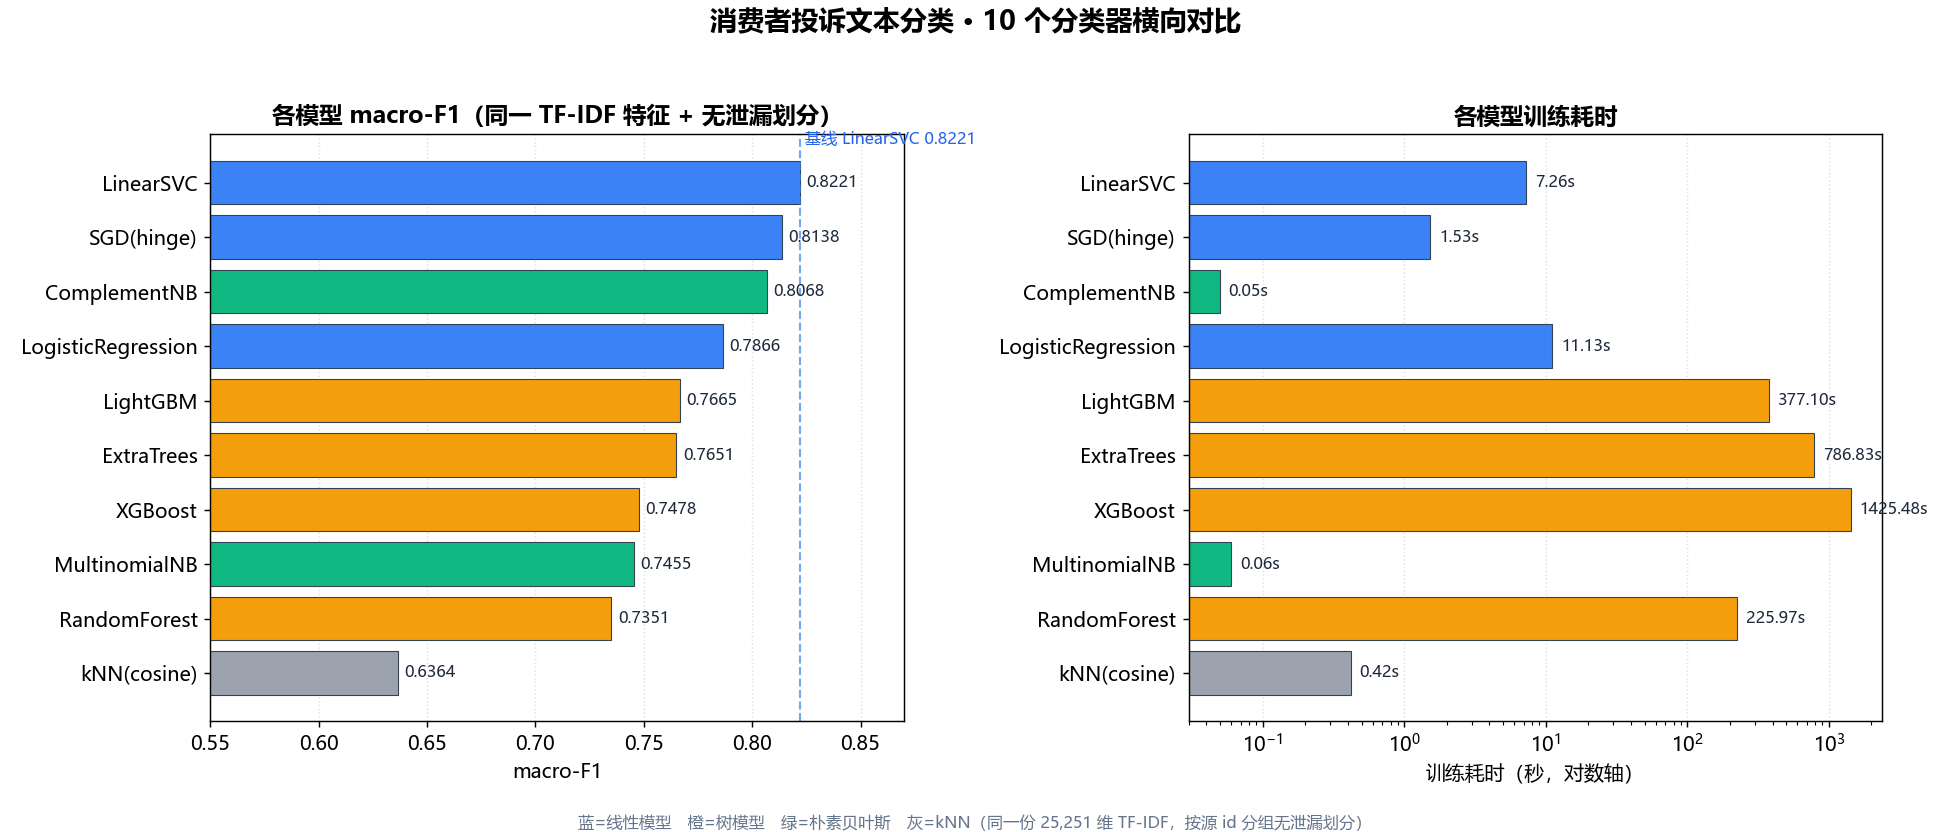
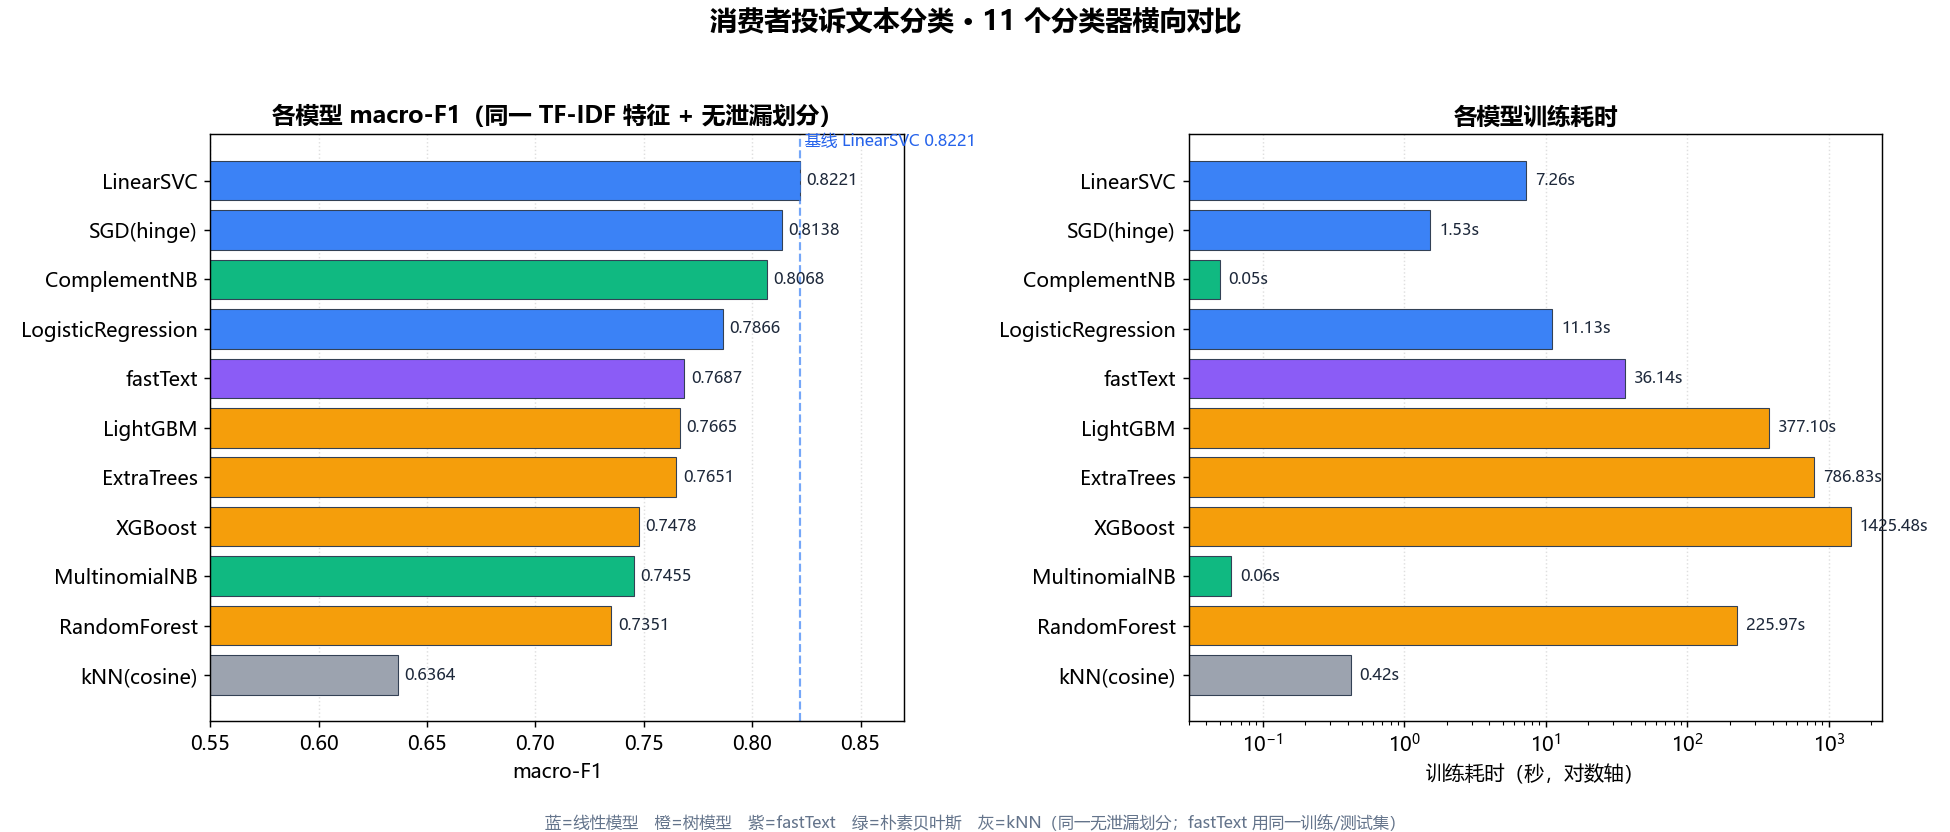
compare: 补测 fastText（0.7687/36s），对比图与 README/TENSOR.md 扩至 11 个模型

diff --git a/resources/compare_fasttext.py b/resources/compare_fasttext.py
@@ -1,0 +1,121 @@
+# -*- coding: utf-8 -*-
+"""TF-IDF/fastText 对比：fastText 监督分类（本机 CPU，无泄漏划分）。
+
+沿用 compare_tfidf_clf.py 的评估协议与同一划分，补测 fastText：
+  - fastText 是"词袋 + 词向量 + 线性分类"一体的高效基线，天然吃原始文本
+  - 中文需先分词（jieba），否则 fastText 按整句/字符切分效果差
+  - 训练用 `train_supervised`，predict 走 `model.predict`
+
+与其它模型同口径输出 macro-F1 / 准确率 / 训练耗时，结果 merge 进
+resources/tfidf_clf_result.json。
+用法：python compare_fasttext.py
+"""
+import os, sys, json, time, tempfile
+import numpy as np
+import pandas as pd
+import jieba
+from sklearn.model_selection import GroupShuffleSplit
+from sklearn.metrics import f1_score, accuracy_score
+
+ROOT = os.path.dirname(os.path.dirname(os.path.abspath(__file__)))
+CSV = os.path.join(ROOT, "train_augmented.csv")
+SEED = 42
+
+jieba.setLogLevel(20)
+cut = lambda t: jieba.lcut(t)
+
+
+def build_split(df):
+    src = df["id"].astype(str).str.split("#").str[0]
+    is_aug = df["is_aug"].to_numpy()
+    ori_idx = np.where(is_aug == 0)[0]
+    gss = GroupShuffleSplit(n_splits=1, test_size=0.2, random_state=SEED)
+    ori_all = np.arange(len(df))
+    tr_ori, te_ori = next(gss.split(ori_all[ori_idx], groups=src.to_numpy()[ori_idx]))
+    tr_ori = ori_idx[tr_ori]; te_ori = ori_idx[te_ori]
+    test_src = set(src.to_numpy()[te_ori])
+    aug_idx = np.where(is_aug == 1)[0]
+    train_aug_idx = np.array([i for i in aug_idx if src.to_numpy()[i] not in test_src])
+    train = np.concatenate([tr_ori, train_aug_idx])
+    return train, te_ori, test_src
+
+
+def write_ft_file(path, texts, labels):
+    """fastText 格式：__label__<id> <空格分词后的文本>"""
+    with open(path, "w", encoding="utf-8") as f:
+        for t, y in zip(texts, labels):
+            seg = " ".join(w for w in cut(str(t)) if w.strip())
+            f.write(f"__label__{y} {seg}\n")
+
+
+def main():
+    import fasttext
+    df = pd.read_csv(CSV)
+    cats = sorted(df["category"].unique())
+    m = {c: i for i, c in enumerate(cats)}
+    y = df["category"].map(m).to_numpy()
+    texts = df["text"].astype(str).tolist()
+    train, test, test_src = build_split(df)
+    ytr, yte = y[train], y[test]
+    n_tr_aug = int((df["is_aug"].to_numpy()[train] == 1).sum())
+    print(f"训练 {len(train)}（原始 {len(train)-n_tr_aug} + 增强 {n_tr_aug}）/ "
+          f"测试 {len(test)}（全原始）；测试源 {len(test_src)} 个", flush=True)
+
+    tmp = tempfile.mkdtemp(prefix="ft_")
+    tr_f = os.path.join(tmp, "train.txt")
+    te_f = os.path.join(tmp, "test.txt")
+    t0 = time.time()
+    write_ft_file(tr_f, [texts[i] for i in train], ytr)
+    write_ft_file(te_f, [texts[i] for i in test], yte)
+    print(f"写出 fastText 数据用时 {time.time()-t0:.1f}s", flush=True)
+
+    rows = []
+    configs = [
+        ("fastText", dict(dim=100, epoch=25, lr=0.5, word_ngrams=2, minn=2, maxn=5, loss="softmax", thread=8)),
+    ]
+    for name, kw in configs:
+        try:
+            t0 = time.time()
+            model = fasttext.train_supervised(input=tr_f, **kw)
+            fit = time.time() - t0
+            # 用语料自带 test 文件评估
+            t0 = time.time()
+            N, prec, rec = model.test(te_f, k=1)
+            inf = time.time() - t0
+            # 用 sklearn 口径复算 macro-F1
+            lines = open(te_f, encoding="utf-8").read().splitlines()
+            gold = [int(l.split()[0].replace("__label__", "")) for l in lines]
+            txts = [" ".join(l.split()[1:]) for l in lines]
+            preds = [int(model.predict(t, k=1)[0][0].replace("__label__", "")) for t in txts]
+            f1 = f1_score(gold, preds, average="macro")
+            acc = accuracy_score(gold, preds)
+            print(f"  {name}  macroF1={f1:.4f} acc={acc:.4f} "
+                  f"训练={fit:.1f}s 推理={inf:.1f}s（ft自带 prec={prec:.4f}）", flush=True)
+            rows.append(dict(name=name, macro_f1=round(float(f1), 4),
+                             acc=round(float(acc), 4), fit_s=round(fit, 2),
+                             infer_s=round(inf, 2), extra="dim100,ep25,ngram2-5"))
+        except Exception as e:
+            print(f"  {name} 失败:", repr(e), flush=True)
+
+    rows.sort(key=lambda r: -r["macro_f1"])
+    print("\n=== 排名 ===")
+    for r in rows:
+        print(f"  {r['name']:12s} F1={r['macro_f1']:.4f} acc={r['acc']:.4f}")
+
+    p = os.path.join(ROOT, "resources", "tfidf_clf_result.json")
+    prev = {}
+    if os.path.exists(p):
+        try: prev = json.load(open(p, encoding="utf-8"))
+        except Exception: prev = {}
+    prev_rows = prev.get("rows", [])
+    names = {r["name"] for r in rows}
+    merged = [r for r in prev_rows if r["name"] not in names] + rows
+    merged.sort(key=lambda r: -r["macro_f1"])
+    prev["rows"] = merged
+    prev["best"] = merged[0] if merged else None
+    json.dump(prev, open(p, "w", encoding="utf-8"), ensure_ascii=False, indent=2)
+    print("已写:", p, flush=True)
+
+
+if __name__ == "__main__":
+    main()

diff --git a/resources/make_compare_fig.py b/resources/make_compare_fig.py
@@ -23,12 +23,14 @@ names = [r["name"] for r in rows]
 f1 = [r["macro_f1"] for r in rows]
 fit = [r["fit_s"] for r in rows]
 
-# 颜色：线性模型蓝、树模型橙、贝叶斯绿、kNN 灰
+# 颜色：线性模型蓝、树模型橙、贝叶斯绿、kNN 灰、fastText 紫
 def color(n):
     if n in ("LinearSVC", "SGD(hinge)", "LogisticRegression"):
         return "#3b82f6"
     if n in ("RandomForest", "ExtraTrees", "XGBoost", "LightGBM"):
         return "#f59e0b"
+    if n == "fastText":
+        return "#8b5cf6"
     if "NB" in n:
         return "#10b981"
     return "#9ca3af"
@@ -67,9 +69,9 @@ for b, v in zip(bars, fit):
 ax.grid(axis="x", ls=":", alpha=0.4)
 ax.set_axisbelow(True)
 
-fig.suptitle("消费者投诉文本分类 · 10 个分类器横向对比", fontsize=15, fontweight="bold", y=0.99)
+fig.suptitle("消费者投诉文本分类 · 11 个分类器横向对比", fontsize=15, fontweight="bold", y=0.99)
 fig.text(0.5, 0.005,
-         "蓝=线性模型　橙=树模型　绿=朴素贝叶斯　灰=kNN（同一份 25,251 维 TF-IDF，按源 id 分组无泄漏划分）",
+         "蓝=线性模型　橙=树模型　紫=fastText　绿=朴素贝叶斯　灰=kNN（同一无泄漏划分；fastText 用同一训练/测试集）",
          ha="center", fontsize=9, color="#64748b")
 plt.tight_layout(rect=[0, 0.03, 1, 0.96])
 

diff --git a/README.md b/README.md
@@ -226,9 +226,9 @@ is_aug   : 0
 | TF-IDF + LinearSVC | 0.8221 | 0.8229 | 13.2s（CPU） | 基线方案，词表 25251 |
 | 词频随机嵌入 | 0.4742 | 0.5131 | 31.7s（CPU） | 无监督随机嵌入，明显最差 |
 
-### 5.5 TF-IDF 之上换分类器：10 模型横向对比
+### 5.5 TF-IDF 之上换分类器：11 模型横向对比
 
-固定**同一份 TF-IDF 特征**（jieba 分词 + 词频，`min_df=2`，25,251 维）+ 同一无泄漏划分，横向对比 10 个分类器。训练集 23,852 条、测试集 1,378 条（全原始）。
+固定**同一份 TF-IDF 特征**（jieba 分词 + 词频，`min_df=2`，25,251 维）+ 同一无泄漏划分，横向对比 11 个分类器（fastText 用同一训练/测试集、自行分词训练）。训练集 23,852 条、测试集 1,378 条（全原始）。
 
 ![模型性能与训练耗时对比](resources/figures/09_model_compare.png)
 
@@ -238,6 +238,7 @@ is_aug   : 0
 | SGD（hinge） | 0.8138 | 0.8157 | 1.5s |
 | ComplementNB | 0.8068 | 0.8128 | 0.1s |
 | LogisticRegression | 0.7866 | 0.8012 | 11.1s |
+| fastText | 0.7687 | 0.7779 | 36.1s |
 | LightGBM | 0.7665 | 0.7845 | 377s |
 | ExtraTrees | 0.7651 | 0.7729 | 787s |
 | XGBoost | 0.7478 | 0.7649 | 1426s |
@@ -249,6 +250,7 @@ is_aug   : 0
 
 - **线性模型明显优于树模型**：TF-IDF 是 25,251 维的高度稀疏特征，线性模型恰好擅长；树模型在高维稀疏矩阵上难以有效分裂且过拟合，RandomForest 训练 226 秒反而只有 0.7351。
 - **梯度提升树同样不划算**（XGBoost / LightGBM）：作为"更强的树模型"，二者精度仅 0.75~0.77，仍落后线性模型 5~7 个点；XGBoost 训练更要 1,426 秒（约 LinearSVC 的 200 倍）。LightGBM 因为直方图算法 + 叶子生长更快（377 秒），是树模型里性价比最高的，但依然不敌线性 SVM。
+- **fastText 表现中游**（0.7687）：作为"词袋 + 词向量 + 线性分类"一体的高效基线，36 秒训练拿到 0.7687，优于全部树模型，但比线性 SVM 低约 5 个点——因为这些投诉文本的关键信号集中在**少数强判别词**（品牌名、业务词），词袋线性模型已能充分捕捉，fastText 的 n-gram 子词与浅层嵌入并未带来额外收益。
 - **朴素贝叶斯是"秒级"基线**：ComplementNB 用 0.1 秒拿到 0.8068，适合作为超低成本的兜底方案。
 - **LinearSVC 仍是精度与速度的最佳平衡点**，故作为部署首选。
 
@@ -286,6 +288,7 @@ text_classfication/
     ├── compare_no_leak.py   无泄漏（分组划分）三策略对比脚本
     ├── compare_tfidf_clf.py TF-IDF + 多分类器横向对比脚本
     ├── compare_tfidf_gbdt.py TF-IDF + 梯度提升树（XGBoost/LightGBM）对比脚本
+    ├── compare_fasttext.py  fastText 监督分类对比脚本
     ├── make_compare_fig.py  模型对比图生成脚本
     ├── leak_check.py        增强泄漏核查脚本
     ├── class.txt            标签表（一行一类，行号即 label id）
